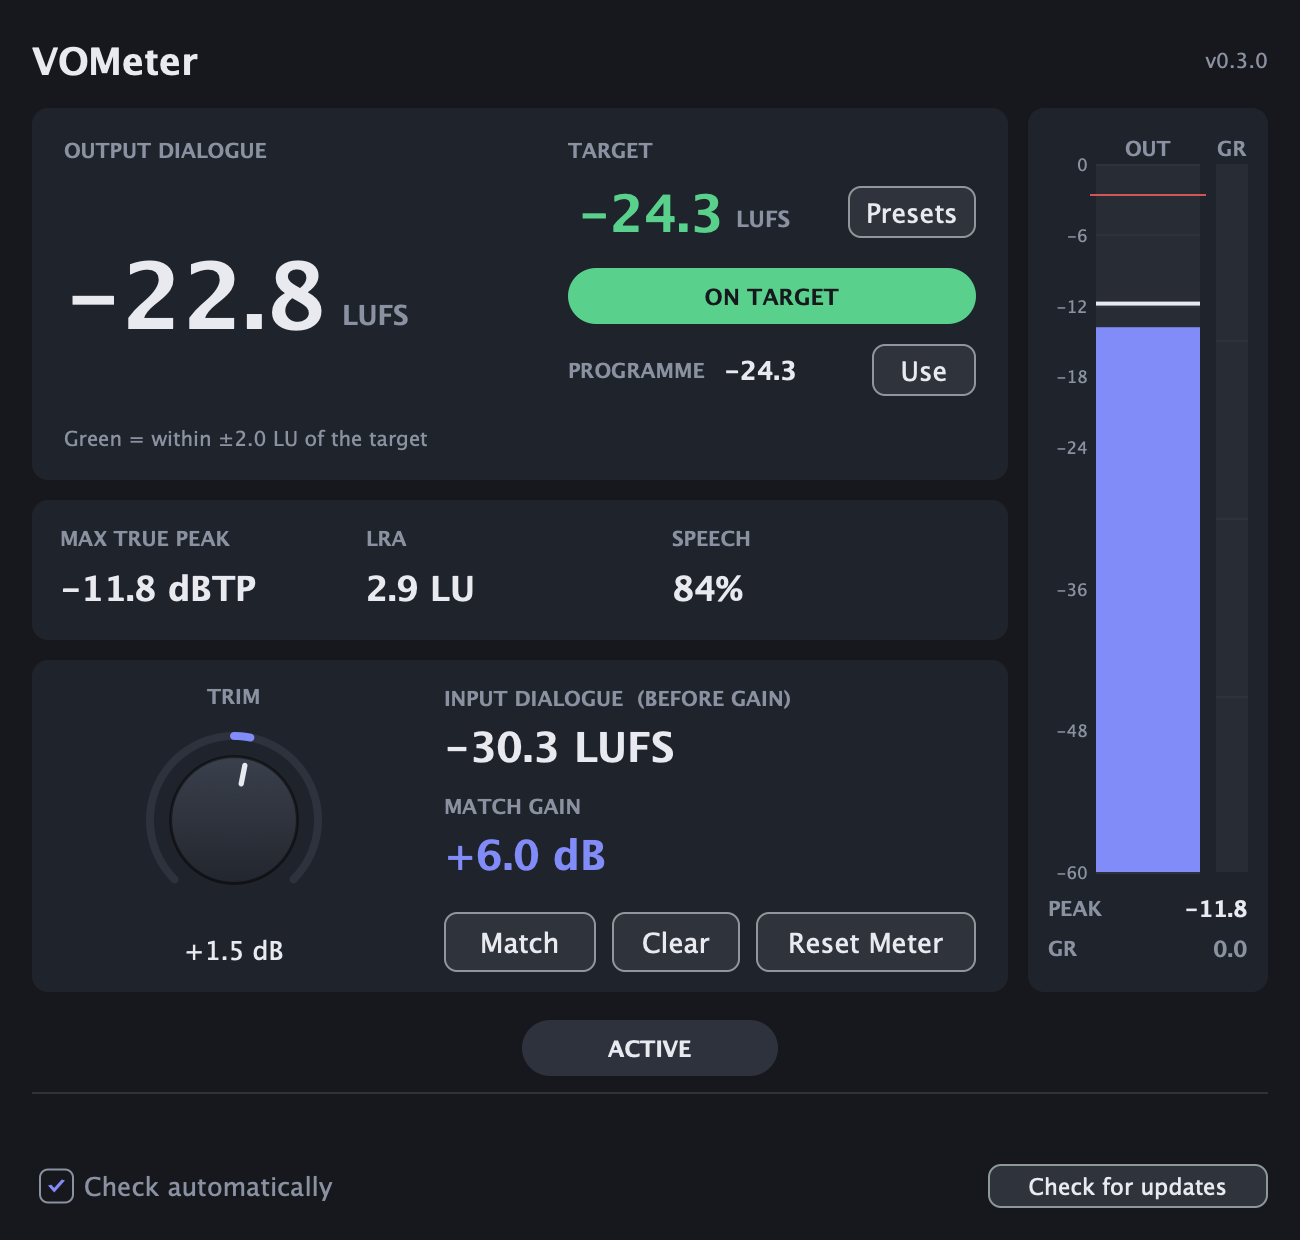
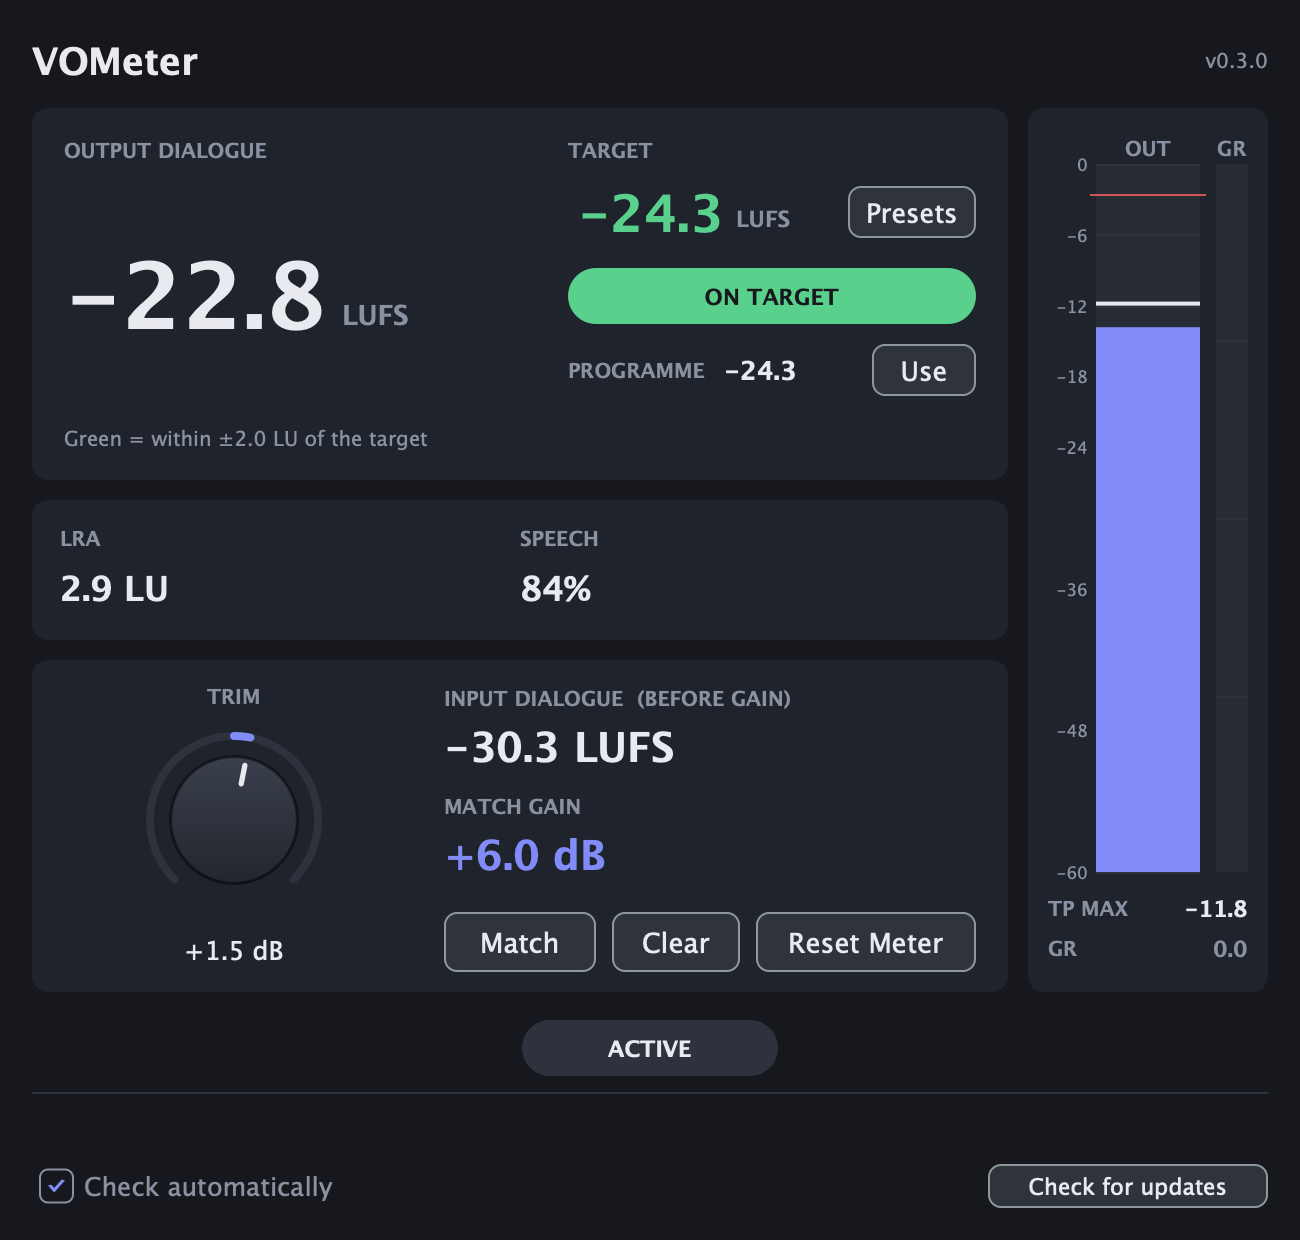
Move max true peak under the level meter
The meter strip's number is now the whole-pass max true peak (TP MAX), which
replaces the 1.5 s held sample peak and the stats-row tile.

diff --git a/Source/PluginEditor.cpp b/Source/PluginEditor.cpp
@@ -383,7 +383,7 @@ void VOMeterEditor::paint (juce::Graphics& g)
     // ---- Stats row ----------------------------------------------------------
     {
         auto row = statsPanel.reduced (14, 10);
-        const int w = row.getWidth() / 3;
+        const int w = row.getWidth() / 2;
         auto tile = [&] (const juce::String& caption, const juce::String& text, juce::Colour ink)
         {
             auto t = row.removeFromLeft (w);
@@ -393,10 +393,6 @@ void VOMeterEditor::paint (juce::Graphics& g)
             g.drawText (text, t, juce::Justification::centredLeft);
             return t;
         };
-
-        const bool tpValid = std::isfinite (tp);
-        const bool tpOver = tpValid && tp > vometer::kCeilingDbTP + 0.05f;
-        tile ("MAX TRUE PEAK", tpValid ? fmt (tp) + " dBTP" : utf8 (kDash), tpOver ? brand::warn : (tpValid ? brand::textMain : brand::textDim));
 
         tile ("LRA", std::isnan (lra) ? utf8 (kDash) : fmt (lra) + " LU", std::isnan (lra) ? brand::textDim : brand::textMain);
 
@@ -500,8 +496,8 @@ void VOMeterEditor::resized()
 
 // The meter strip: output sample peak per channel (dBFS, -60 to 0, with the
 // limiter's ceiling and a peak-hold line) and the limiter's gain reduction
-// (0 to 12 dB, growing down from the top). Numbers underneath: the highest
-// held peak and the gain reduction right now.
+// (0 to 12 dB, growing down from the top). Numbers underneath: the max true
+// peak since Reset Meter, and the gain reduction right now.
 void VOMeterEditor::drawMeters (juce::Graphics& g)
 {
     auto inner = meterPanel.reduced (10, 12);
@@ -538,7 +534,6 @@ void VOMeterEditor::drawMeters (juce::Graphics& g)
     // Level bars.
     const int gap = meterChannels > 2 ? 2 : 4;
     const float barW = (float) (levels.getWidth() - gap * (meterChannels - 1)) / (float) meterChannels;
-    float maxHold = -100.0f;
     for (int c = 0; c < meterChannels; ++c)
     {
         const auto bar = juce::Rectangle<float> ((float) levels.getX() + c * (barW + gap), (float) levels.getY(), barW, (float) levels.getHeight());
@@ -554,7 +549,6 @@ void VOMeterEditor::drawMeters (juce::Graphics& g)
             g.setColour (brand::textMain);
             g.fillRect (bar.withTop (yFor (holdDb[c]) - 1.0f).withHeight (2.0f));
         }
-        maxHold = std::max (maxHold, holdDb[c]);
     }
 
     // The limiter's ceiling.
@@ -585,6 +579,9 @@ void VOMeterEditor::drawMeters (juce::Graphics& g)
         g.setFont (juce::FontOptions (13.0f, juce::Font::bold));
         g.drawText (value, row, juce::Justification::centredRight);
     };
-    line ("PEAK", maxHold > kMeterFloorDb ? fmt (maxHold) : utf8 (kDash), maxHold > kMeterFloorDb ? brand::textMain : brand::textDim);
+    // Whole-pass max true peak since Reset Meter (the deliverable figure).
+    const bool tpValid = std::isfinite (tp);
+    const bool tpOver = tpValid && tp > vometer::kCeilingDbTP + 0.05f;
+    line ("TP MAX", tpValid ? fmt (tp) : utf8 (kDash), tpOver ? brand::warn : (tpValid ? brand::textMain : brand::textDim));
     line ("GR", gr > 0.05f ? "-" + fmt (gr) : juce::String ("0.0"), gr > 0.05f ? brand::warn : brand::textDim);
 }

diff --git a/Source/PluginEditor.h b/Source/PluginEditor.h
@@ -10,9 +10,10 @@
 //   loudness - big output LUFS (dialogue-gated, or integrated when mastering a mix),
 //              editable target (green when on target), programme loudness from
 //              the sidechain + Use (as target; mono narration tracks only)
-//   stats    - max true peak, LRA, speech share
+//   stats    - LRA, speech share
 //   meters   - strip down the right: output peak per channel (with the -2.5 dBTP
-//              ceiling and a peak hold) and the limiter's gain reduction
+//              ceiling and a peak hold) and the limiter's gain reduction, with
+//              the max true peak since reset and the gain reduction as numbers
 //   gain     - Trim knob (your ride; alt-click = 0 dB), input loudness, Match gain,
 //              Match / Clear / Reset Meter
 //   pills    - Bypass

diff --git a/README.md b/README.md
@@ -100,8 +100,7 @@ duck harder; riding the narration fader doesn't.
 |---------|---------|
 | Output dialogue (or integrated) | Loudness of the output since the last reset: dialogue-gated, or integrated in Integrated mode |
 | Programme | Dialogue loudness of the side-chain programme, with **Use** to take it as the target. Mono narration tracks only (a full mix has no programme to follow), and hidden until a side chain brings programme audio (Logic's "None" sends the track's own audio, which VOMeter ignores) |
-| Max true peak | Highest output true peak since the reset (8× oversampled) |
-| Level meter (OUT) | Output sample peak of each channel (1, 2 or 6 bars), -60 to 0 dBFS, with a peak-hold line and the -2.5 dBTP ceiling marked in red. PEAK underneath is the highest held peak. Runs whether or not the transport plays |
+| Level meter (OUT) | Output sample peak of each channel (1, 2 or 6 bars), -60 to 0 dBFS, with a peak-hold line and the -2.5 dBTP ceiling marked in red. TP MAX underneath is the highest true peak since Reset Meter (8× oversampled), the figure to check against a delivery spec; red if it ever went over the ceiling. The bars run whether or not the transport plays; TP MAX, like the loudness, only measures while playing or bouncing |
 | Gain reduction meter (GR) | How far the -2.5 dBTP limiter is turning the audio down right now, 0 to 12 dB, growing down from the top (falls back at 20 dB/s). GR underneath gives the number |
 | LRA | Loudness range of the output (EBU Tech 3342) |
 | Speech | Share of the measured time that counted as dialogue |
